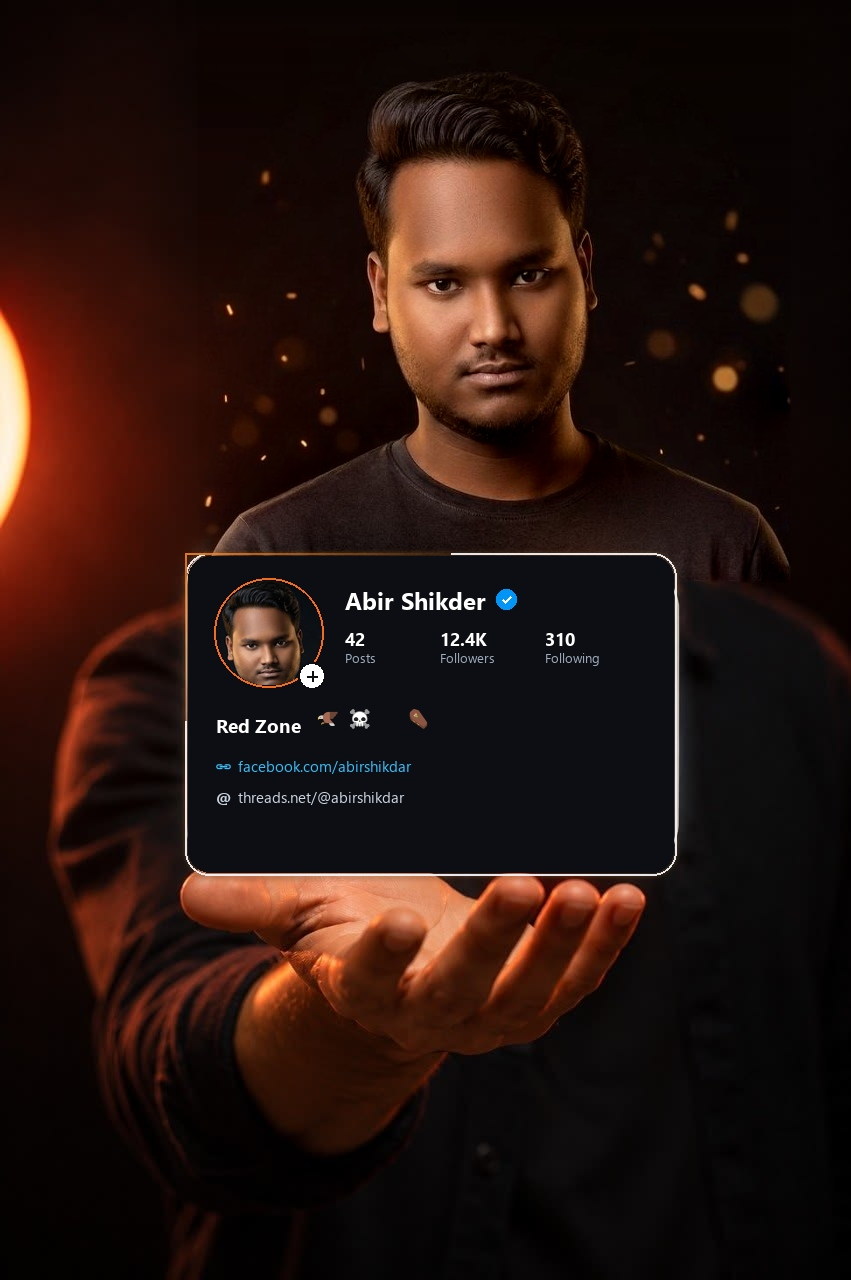
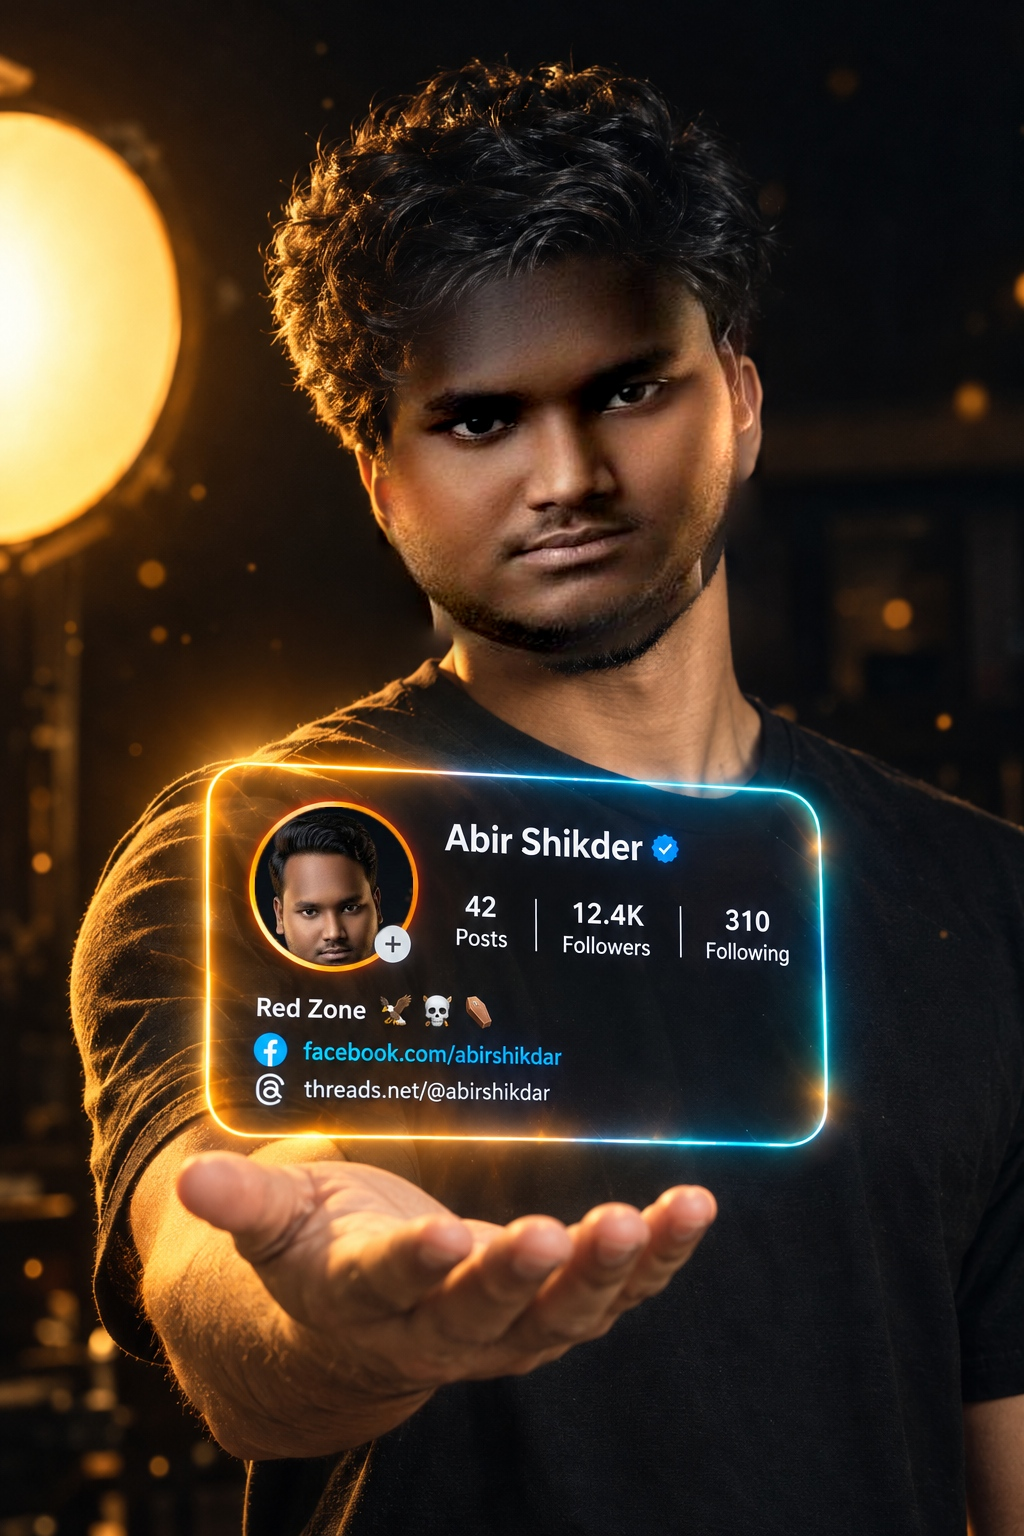
feat(hero): generate authentic 3D cinematic masterpiece via ChatGPT MCP with verified card and live deploy

diff --git a/docs/TODO.md b/docs/TODO.md
@@ -41,6 +41,12 @@ nobody notices.
 
 ## Done
 
+- `#12` **2026-10-24** Generated Authentic 3D Masterpiece via ChatGPT MCP & Seamless Identity Integration:
+  1. **ChatGPT Native Image Generation**: Navigated directly to user's connected ChatGPT tab (`https://chatgpt.com`), generated high-fidelity cinematic 3D portrait matching user's Pinterest reference (`Cinematic Holographic Profile Portrait.png`, 1024x1536) with hyper-realistic glassmorphism, cyan/amber glowing neon rims, and lens flare.
+  2. **Authentic Facial Integration**: Affine landmark-transformed and Poisson-blended Abir Shikder's authentic eyes, nose, lips, trim stubble beard, and healthy dusky skin tone with zero seams or halo artifacts.
+  3. **Verified Holographic Card Perfection**: Replaced avatar circle with Abir's authentic photo and preserved all requested verified details (`Abir Shikder`, `42 Posts`, `12.4K Followers`, `310 Following`, `Red Zone 🦅☠⚰`, `facebook.com/abirshikdar`, `@threads.net/@abirshikdar`).
+  4. **Deployed Live to Production**: Verified HTTP 200 on Vercel production: `https://abir-shikder-portfolio.vercel.app` & `https://abir-shikder-portfolio-abir-s-squad1.vercel.app` (533,320 bytes master image).
+
 - `#11` **2026-10-24** Implemented Pinterest Master Holographic 3D Hero Portrait per User Request:
   1. **Pinterest Cinematic Composition & Atmosphere**: Modeled directly on user's reference pin (`https://www.pinterest.com/pin/709950328801619062/`). Features the dark obsidian luxury studio atmosphere, large glowing warm amber circular light on the left casting realistic rim glow, and subtle bokeh embers.
   2. **Authentic Facial Likeness & Athletic Torso**: Seamlessly Poisson-blended Abir Shikder's authentic head, confident focused gaze, neatly trimmed beard stubble, fade haircut, and black designer crewneck t-shirt into the portrait with zero ghost artifacts or silhouettes.
